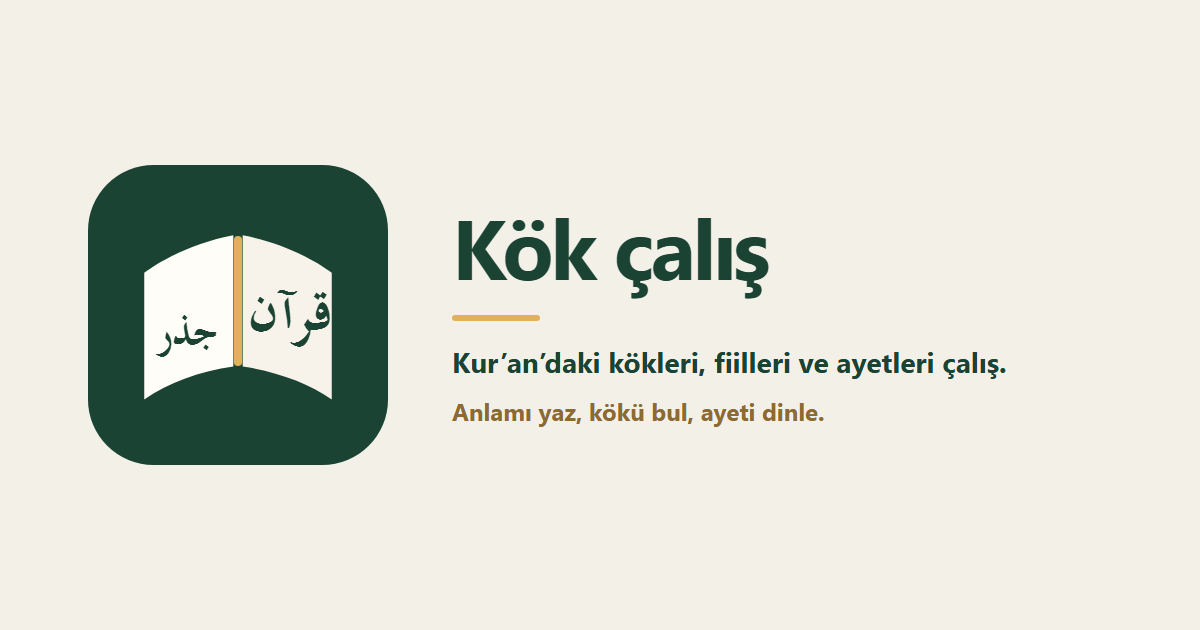
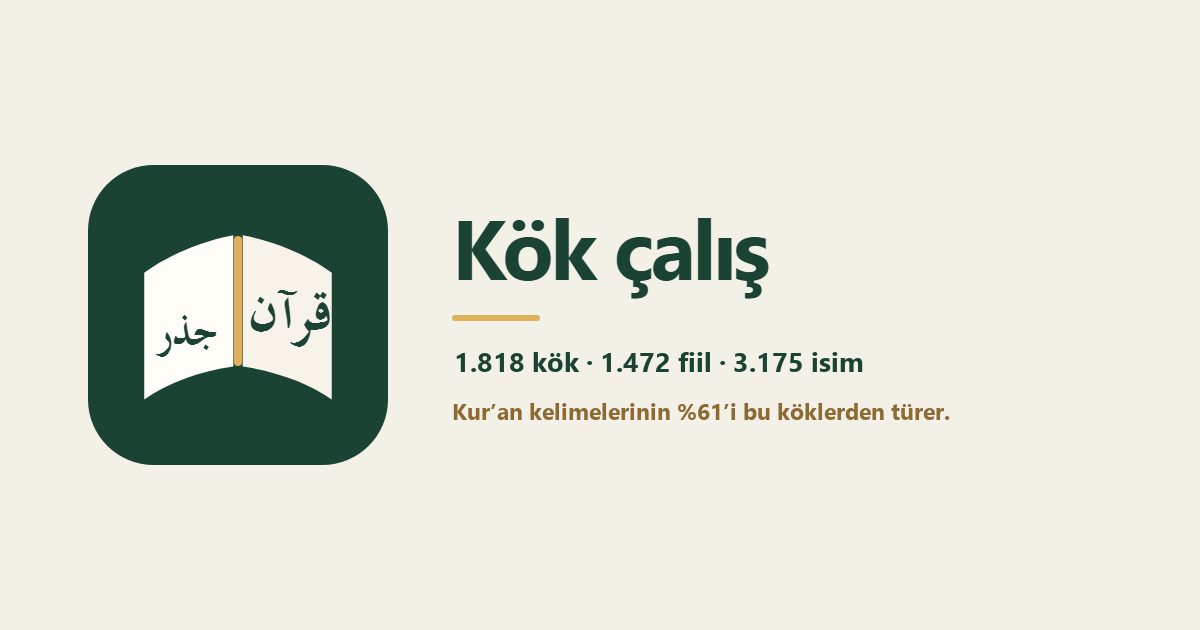
Show the root, verb, and noun counts in the link preview.

Changed region(s): [[0.37, 0.5429, 0.8325, 0.6032], [0.37, 0.6333, 0.8017, 0.6937]]

diff --git a/web/index.html b/web/index.html
@@ -8,21 +8,21 @@
   <meta name="apple-mobile-web-app-capable" content="yes" />
   <meta name="apple-mobile-web-app-status-bar-style" content="black-translucent" />
   <title>Kök çalış</title>
-  <meta name="description" content="Kur’an’daki kökleri, fiilleri ve ayetleri çalış. Anlamı yaz, kökü bul, ayeti dinle." />
+  <meta name="description" content="1.818 kök, 1.472 fiil, 3.175 isim. Kur’an kelimelerinin %61’i bu köklerden türer. Anlamı yaz, kökü bul, ayeti dinle." />
   <meta property="og:type" content="website" />
   <meta property="og:locale" content="tr_TR" />
   <meta property="og:site_name" content="Kök çalış" />
   <meta property="og:title" content="Kök çalış" />
-  <meta property="og:description" content="Kur’an’daki kökleri, fiilleri ve ayetleri çalış. Anlamı yaz, kökü bul, ayeti dinle." />
+  <meta property="og:description" content="1.818 kök, 1.472 fiil, 3.175 isim. Kur’an kelimelerinin %61’i bu köklerden türer. Anlamı yaz, kökü bul, ayeti dinle." />
   <meta property="og:url" content="https://kok-calis.web.app/" />
-  <meta property="og:image" content="https://kok-calis.web.app/web/og.png" />
+  <meta property="og:image" content="https://kok-calis.web.app/web/og.png?v=2" />
   <meta property="og:image:width" content="1200" />
   <meta property="og:image:height" content="630" />
   <meta property="og:image:alt" content="Kök çalış: Kur’an köklerini çalış" />
   <meta name="twitter:card" content="summary_large_image" />
   <meta name="twitter:title" content="Kök çalış" />
-  <meta name="twitter:description" content="Kur’an’daki kökleri, fiilleri ve ayetleri çalış. Anlamı yaz, kökü bul, ayeti dinle." />
-  <meta name="twitter:image" content="https://kok-calis.web.app/web/og.png" />
+  <meta name="twitter:description" content="1.818 kök, 1.472 fiil, 3.175 isim. Kur’an kelimelerinin %61’i bu köklerden türer. Anlamı yaz, kökü bul, ayeti dinle." />
+  <meta name="twitter:image" content="https://kok-calis.web.app/web/og.png?v=2" />
   <link rel="manifest" href="./manifest.webmanifest?v=4" />
   <link rel="icon" href="./icon.svg?v=4" />
   <link rel="stylesheet" href="./styles.css?v=22" />

diff --git a/index.html b/index.html
@@ -4,21 +4,21 @@
   <meta charset="utf-8" />
   <meta http-equiv="refresh" content="0; url=web/" />
   <title>Kök çalış</title>
-  <meta name="description" content="Kur’an’daki kökleri, fiilleri ve ayetleri çalış. Anlamı yaz, kökü bul, ayeti dinle." />
+  <meta name="description" content="1.818 kök, 1.472 fiil, 3.175 isim. Kur’an kelimelerinin %61’i bu köklerden türer. Anlamı yaz, kökü bul, ayeti dinle." />
   <meta property="og:type" content="website" />
   <meta property="og:locale" content="tr_TR" />
   <meta property="og:site_name" content="Kök çalış" />
   <meta property="og:title" content="Kök çalış" />
-  <meta property="og:description" content="Kur’an’daki kökleri, fiilleri ve ayetleri çalış. Anlamı yaz, kökü bul, ayeti dinle." />
+  <meta property="og:description" content="1.818 kök, 1.472 fiil, 3.175 isim. Kur’an kelimelerinin %61’i bu köklerden türer. Anlamı yaz, kökü bul, ayeti dinle." />
   <meta property="og:url" content="https://kok-calis.web.app/" />
-  <meta property="og:image" content="https://kok-calis.web.app/web/og.png" />
+  <meta property="og:image" content="https://kok-calis.web.app/web/og.png?v=2" />
   <meta property="og:image:width" content="1200" />
   <meta property="og:image:height" content="630" />
   <meta property="og:image:alt" content="Kök çalış: Kur’an köklerini çalış" />
   <meta name="twitter:card" content="summary_large_image" />
   <meta name="twitter:title" content="Kök çalış" />
-  <meta name="twitter:description" content="Kur’an’daki kökleri, fiilleri ve ayetleri çalış. Anlamı yaz, kökü bul, ayeti dinle." />
-  <meta name="twitter:image" content="https://kok-calis.web.app/web/og.png" />
+  <meta name="twitter:description" content="1.818 kök, 1.472 fiil, 3.175 isim. Kur’an kelimelerinin %61’i bu köklerden türer. Anlamı yaz, kökü bul, ayeti dinle." />
+  <meta name="twitter:image" content="https://kok-calis.web.app/web/og.png?v=2" />
   <script>location.replace("web/")</script>
 </head>
 <body>
